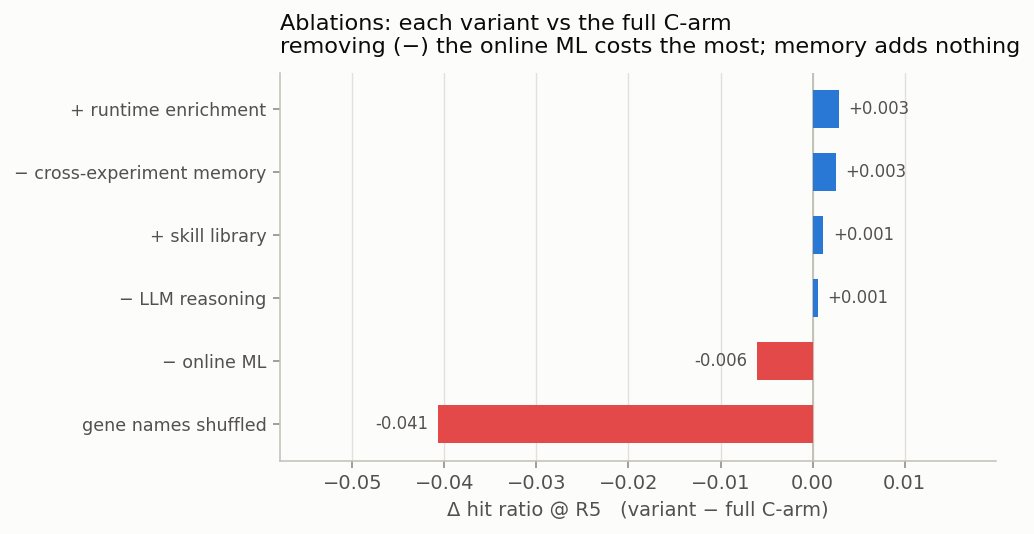
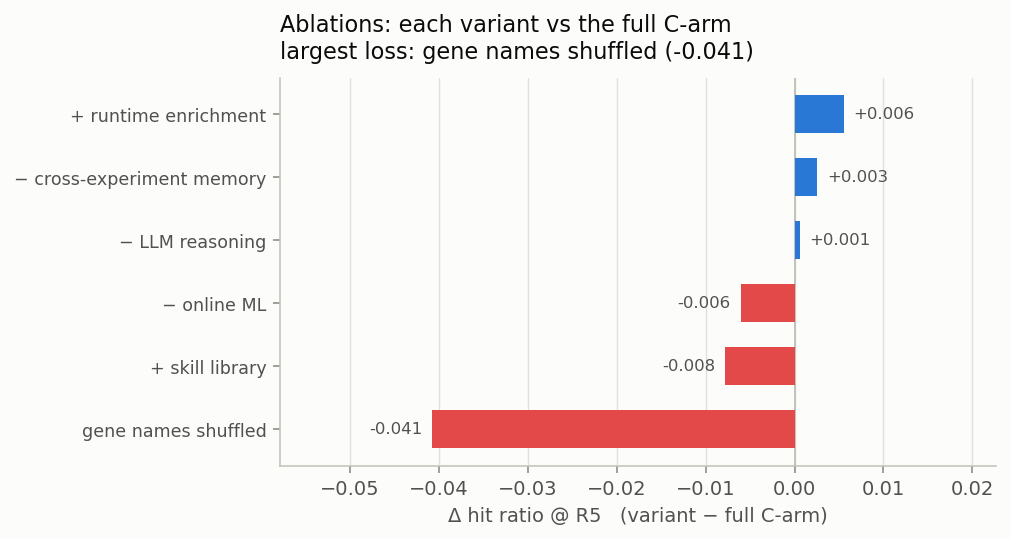
fix(paper): Figure 3-6 provenance — GPT augmentation bars, honest captions
Figure 3 (right) drew its two augmentation bars from the July Claude files
under sequential/ (3 seeds), so the GPT paper's figure contradicted its own
Table tab:aug: skill +0.001 in the figure vs -0.008 in the table, enrichment
+0.003 vs +0.006. data.py now reads the GPT re-runs under results/gpt/.

The ablation title was hard-coded from the Claude era ("removing the online
ML costs the most") and sat over GPT bars where name shuffling is the loss
(-0.041; online ML -0.006). The title is now read off the data.

Captions:
- fig:bars: drop the Claude "-0.012, largest loss"; state that the four
  component bars pair against the legacy routed C-arm (20 reps) and the two
  augmentations against the final C-arm (3 reps).
- tab:attrib, fig:attrib and the paragraph above: the GPT trace pools all
  nine screens (4,800 picks); "eight weighted-fusion screens" and "GWPS
  reported separately as two-stage" were Claude legacy-router leftovers.
- fig:attrib, fig:shap: say these come from one traced campaign per screen,
  not the 20-replicate main run.

Not changed (pending a decision): tab:cond_attrib still excludes GWPS for a
reason that no longer holds on GPT.

diff --git a/waddington_select/analysis/data.py b/waddington_select/analysis/data.py
@@ -18,6 +18,7 @@ RESULTS = REPO_ROOT / "workspace" / "results" / "sequential"
 # The final leakage-free 20-seed run of all six main-table arms (used for the principal figures 1-3);
 # the legacy three_arm.json waddington_c stays the reference for the component-ablation figure.
 FINAL_WADD = REPO_ROOT / "workspace" / "results" / "gpt" / "gpt_5_6_luna_none_20rep" / "main_table_20rep.json"
+GPT_RESULTS = REPO_ROOT / "workspace" / "results" / "gpt"
 
 # Which file each method's runs live in (baselines + the three-arm comparison).
 METHOD_FILES = {
@@ -36,8 +37,11 @@ ABLATIONS = {
     "waddington_c_shuffled_names": ("ablation_shuffled.json", "gene names shuffled"),
     "waddington_c_feature_reasoning": ("ablation_feature_reasoning.json", "anonymized + structural features"),
     "waddington_c_pool_only": ("ablation_feature_reasoning.json", "anonymized + ML pool, no features"),
-    "waddington_c_skills": ("skills_ablation.json", "+ skill library"),
-    "waddington_c_enrich": ("enrich_gated.json", "+ runtime enrichment"),
+    # The two augmentations were re-run on GPT-5.6 Luna; the July files of the same name under
+    # sequential/ are the Claude predecessor and must not be mixed into the GPT figure.
+    # (An absolute path here wins over RESULTS in load_ablation's join.)
+    "waddington_c_skills": (GPT_RESULTS / "skills_ablation.json", "+ skill library"),
+    "waddington_c_enrich": (GPT_RESULTS / "enrich_gated.json", "+ runtime enrichment"),
 }
 
 

diff --git a/waddington_select/analysis/figures.py b/waddington_select/analysis/figures.py
@@ -156,9 +156,13 @@ def ablations(out: Path) -> Path:
 
     ax.set_yticks(y, df["label"], fontsize=9)
     # Colour states a fact about the VARIANT ("scored lower than the full arm"), not a verdict on the
-    # component: a red "− online ML" means removing online ML costs 0.012, i.e. it is the most valuable part.
+    # component: a red "−" variant marks the removed component as one the arm needs.
     ax.set_xlabel("Δ hit ratio @ R5   (variant − full C-arm)")
-    ax.set_title("Ablations: each variant vs the full C-arm\nremoving (−) the online ML costs the most; memory adds nothing",
+    # The headline is read off the data: a hard-coded one went stale when the model changed (the
+    # Claude-era "online ML costs the most" survived onto GPT bars where name shuffling is the loss).
+    worst = df.loc[df["delta"].idxmin()]
+    ax.set_title(f"Ablations: each variant vs the full C-arm\n"
+                 f"largest loss: {worst['label']} ({worst['delta']:+.3f})",
                  color=S.INK, fontsize=11.5, loc="left", pad=10)
     pad = max(abs(df["delta"])) * 0.42
     ax.set_xlim(min(df["delta"]) - pad, max(df["delta"]) + pad)
